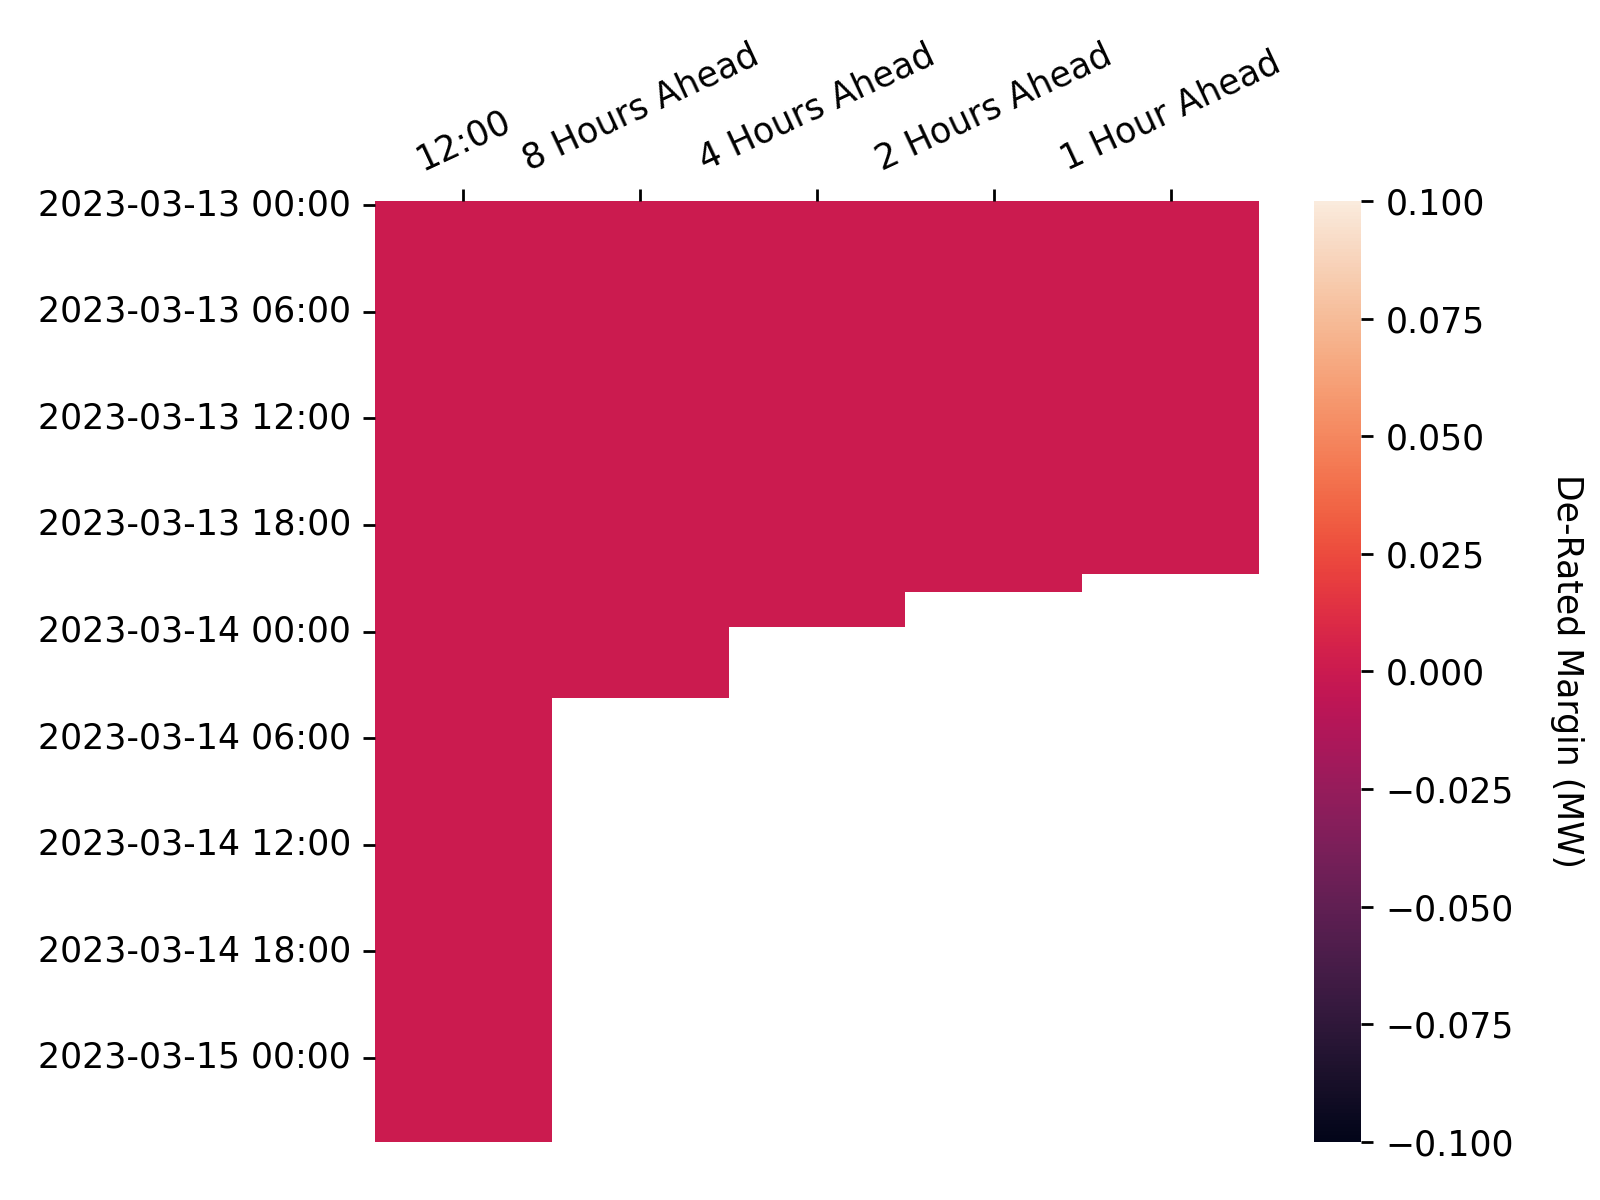
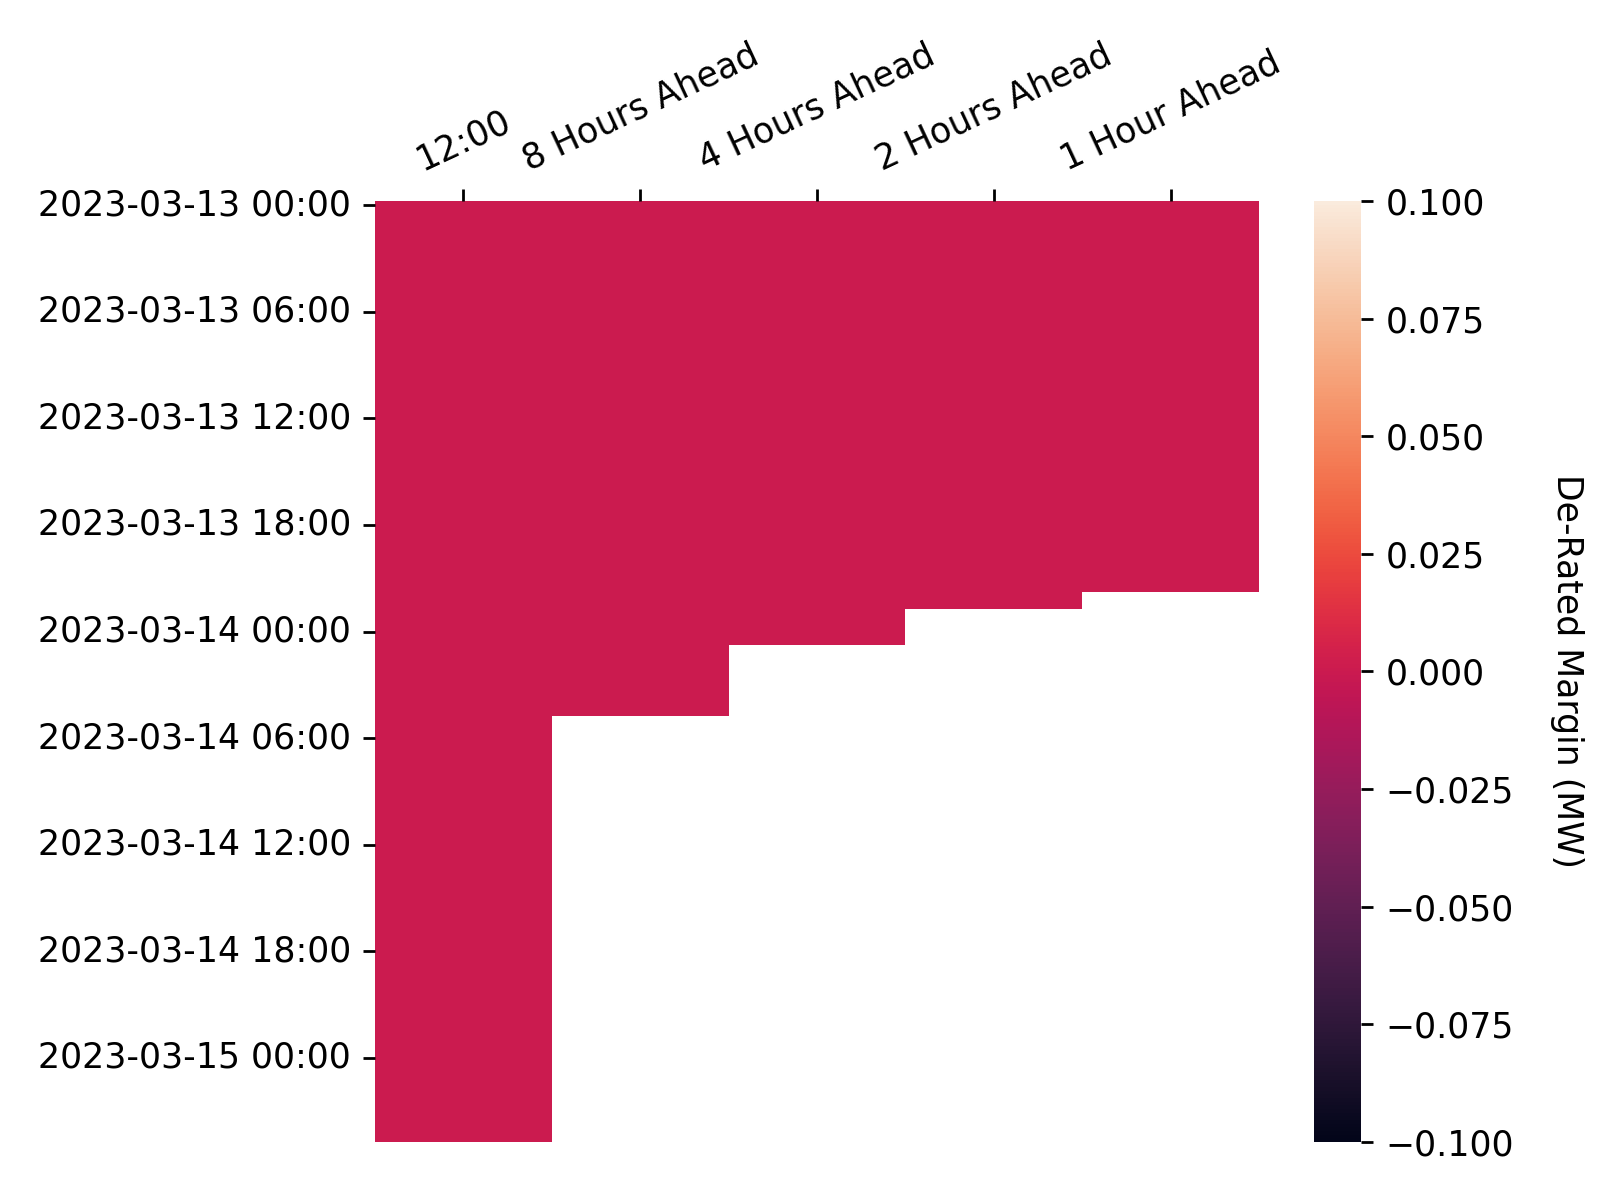
Apply automatic changes

Changed region(s): [[0.5625, 0.4625, 0.7812, 0.5242], [0.3438, 0.555, 0.4688, 0.6167], [0.4375, 0.5242, 0.5625, 0.555]]

diff --git a/docs/js/map.js b/docs/js/map.js
@@ -144,7 +144,7 @@ document.addEventListener("DOMContentLoaded", function() {
                 follow: 1
             });
             mymap.addControl(sliderControl);
-            sliderControl.startSlider(334);
+            sliderControl.startSlider(335);
         });
     });
 });

diff --git a/docs/visualisations.md b/docs/visualisations.md
@@ -15,7 +15,7 @@ The figures shown here are attempts to replicate the visualisations from [this p
 * Wind, solar and biomass provided 20% of demand in 2015, with a peak of 45%.
 * Prices have become more volatile and net demand is falling towards must-run nuclear.
 
-These figures will be updated on a weekly basis, the last update was at: 2023-03-13 19:35
+These figures will be updated on a weekly basis, the last update was at: 2023-03-13 20:35
 
 <br>
 
@@ -39,7 +39,7 @@ The figure shown here is reproduced from the work in [this paper](https://ayrton
 * In Britain the MOE has increased sharply since 2016, with a 0.67% price reduction per p.p. increase in RES penetration
 * Disaggregation of the MOE by fuel-type highlights key differences in the transition paths of Britain and Germany
 
-This figure will be updated on a weekly basis, the last update was at: 2023-03-13 19:35
+This figure will be updated on a weekly basis, the last update was at: 2023-03-13 20:35
 
 <br>
 
@@ -60,7 +60,7 @@ In each settlement period the system operator publishes the de-rated margin fore
 * At 1200 hours on each calendar day for all Settlement Periods for which Gate Closure has not yet passed and which occur within the current Operational Day or the following Operational Day; and
 * At eight, four, two and one hour(s) prior to the beginning of the Settlement Period to which the De-Rated Margin Forecast relates.
 
-These figures will be updated on an hourly basis, the last update was at: 2023-03-13 20:10
+These figures will be updated on an hourly basis, the last update was at: 2023-03-13 20:40
 
 <br>
 
@@ -83,7 +83,7 @@ The following heatmap shows how the more recent de-rated margin forecasts deviat
 
 ### Power Output Map
 
-Last Updated: 2023-03-13 20:10
+Last Updated: 2023-03-13 20:40
 
 This map shows the power output of individual plants connected to the transmission grid as stated in their most recent Physical Notifications. This data can be retrieved through the *PHYBMDATA* BMRS stream, the out-turn data can be viewed one week later through the *B1610* stream. The scrollbar at the top of the map can be used to view how the generation sources have changed their output over the last week, the layer control can be used to toggle on/off the transmission network, and the plants themselves can be clicked to reveal additional information. The plant location data used in this map has been taking from a sister project, [the Power Station Dictionary](https://osuked.github.io/Power-Station-Dictionary/), which aims to link between data about individual power plants.
 
